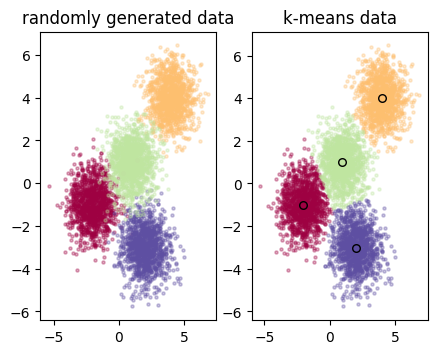
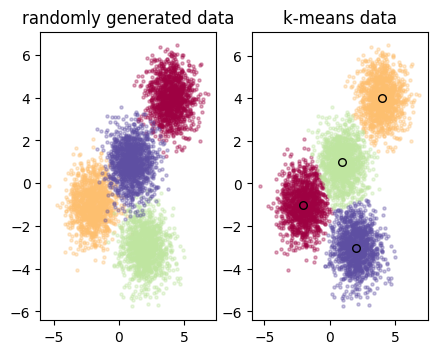
separated for loops to allow for selection of different numbers of clusters in k-means test

Changed region(s): [[0.1179, 0.1243, 0.4717, 0.8701]]

diff --git a/kMeansFun.py b/kMeansFun.py
@@ -34,9 +34,10 @@ def kMeansPlot(data, labels, numClust=False, kMehtod = "k-means++", nInit = 12, 
     A plot containing the original data and the kmeans cluster data. Includes
     centroids.
     """
-
+    dataClust = len(set(labels))
     if not numClust:
-        numClust = len(set(labels))
+        numClust = dataClust
+    
     kMeansCl = KMeans(init = "k-means++", n_clusters = numClust, n_init = nInit)
 
     kMeansCl.fit(data) # Fit k-means model to data
@@ -55,11 +56,42 @@ def kMeansPlot(data, labels, numClust=False, kMehtod = "k-means++", nInit = 12, 
 
     # Produce an array of colors based on the number of unique k-means labels
     labSet = set(kMeansLabs) # gives set of unique k-means labels
-    colors = plt.cm.Spectral(np.linspace(0, 1, len(labSet)))
+    colors1 = plt.cm.Spectral(np.linspace(0, 1, dataClust))
+    colors2 = plt.cm.Spectral(np.linspace(0, 1, len(labSet)))
 
     # For loop that plots the data points and centroids.
     # k will range from 0-3, which will match the possible clusters that each
     # data point is in.
+    for lab1, color in zip(range(dataClust), colors1):
+
+        # Create a list of all data points, where the data poitns that are 
+        # in the cluster (ex. cluster 0) are labeled as true, else they are
+        # labeled as false.
+        clustMemb1 = (labels == lab1)
+
+        if tempColorFix:
+            color = [colors1[i + (-1)**i] for i in range(len(colors1))][lab1]
+
+        # Plots the datapoints with color.
+        ax1.scatter(data[clustMemb1, 0], data[clustMemb1, 1], alpha = 0.33, c = [color], edgecolors = [color], s = 5)
+
+    for lab2, color in zip(range(numClust), colors2):
+
+        # Create a list of all data points, where the data poitns that are 
+        # in the cluster (ex. cluster 0) are labeled as true, else they are
+        # labeled as false.
+        clustMemb = (kMeansLabs == lab2)
+        
+        # Define the centroid, or cluster center.
+        kMeansCentroid = kMeansClCents[lab2]
+
+        # Plots the datapoints with color.
+        ax2.scatter(data[clustMemb, 0], data[clustMemb, 1], alpha = 0.33, c = [color], edgecolors = [color], s=5)
+        
+        # Plots the centroids with specified color, but with a darker outline
+        ax2.scatter(kMeansCentroid[0], kMeansCentroid[1], alpha = 1, c = [color], edgecolors = 'k', s=30)
+
+    '''
     for k, color in zip(range(numClust), colors):
 
         # Create a list of all data points, where the data poitns that are 
@@ -70,7 +102,7 @@ def kMeansPlot(data, labels, numClust=False, kMehtod = "k-means++", nInit = 12, 
         
         # Define the centroid, or cluster center.
         kMeansCentroid = kMeansClCents[k]
-        
+        print(len(colors))
         if tempColorFix:
             color2 = [colors[i + (-1)**i] for i in range(len(colors))][k]
         else:
@@ -81,7 +113,7 @@ def kMeansPlot(data, labels, numClust=False, kMehtod = "k-means++", nInit = 12, 
         
         # Plots the centroids with specified color, but with a darker outline
         ax2.scatter(kMeansCentroid[0], kMeansCentroid[1],alpha = 1, c = [color], edgecolors = 'k', s=30)
-
+    '''
     # Title of the plot
     ax1.set_title('randomly generated data')
     ax2.set_title('k-means data')

diff --git a/example.py b/example.py
@@ -27,4 +27,4 @@ stdBlobs = 0.9
 
 coords, labs = make_blobs(n_samples = numSamp, centers = clCents, cluster_std = stdBlobs)
 
-kMeansPlot(coords, labs, saveFile = True)
+kMeansPlot(coords, labs, numClust = 4, tempColorFix=False,saveFile = True)
